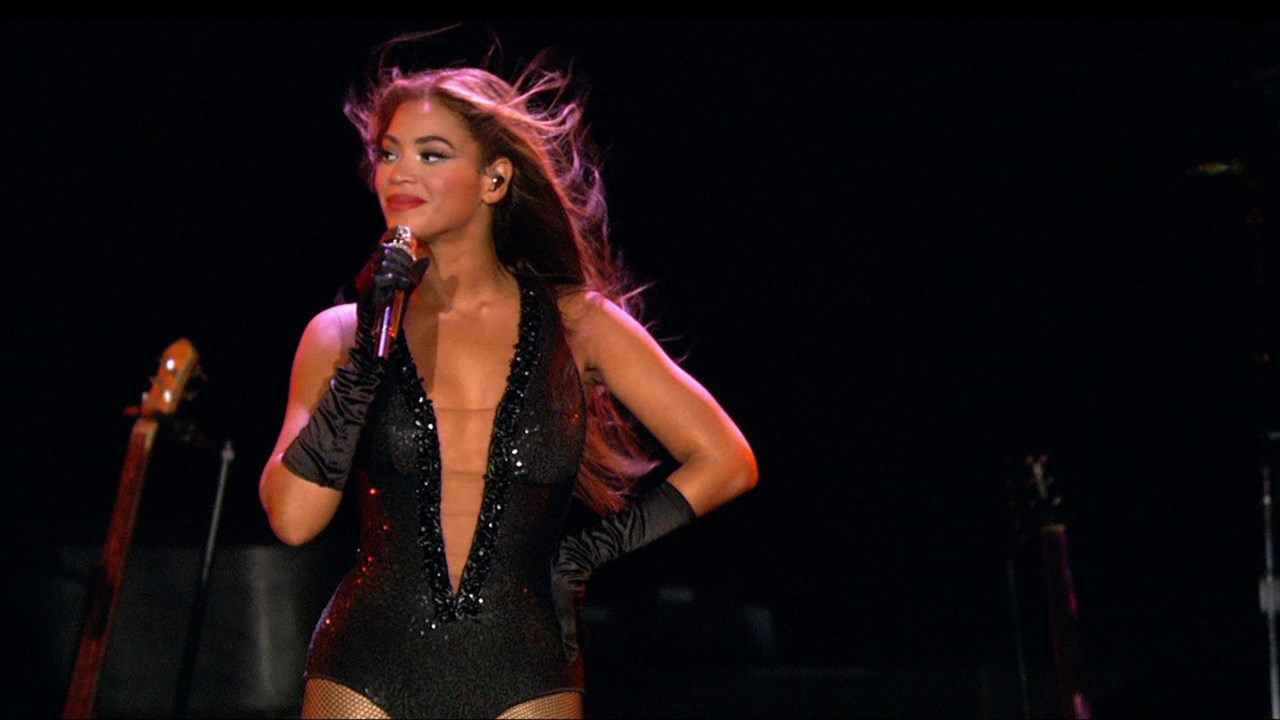
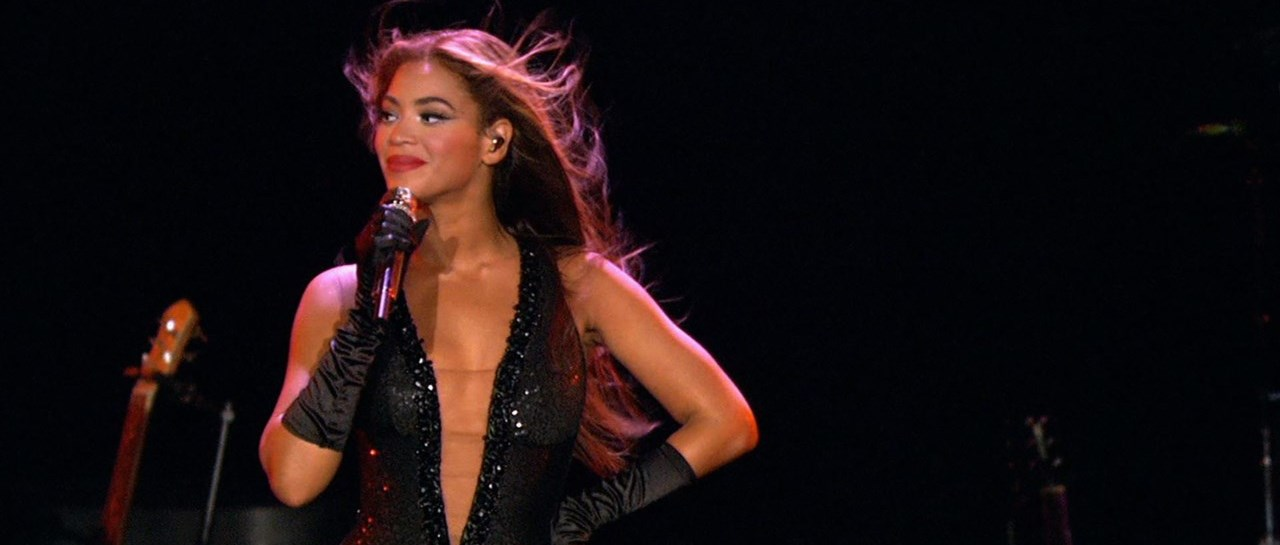
Fixed Single event page

diff --git a/vika-single-event.html b/vika-single-event.html
@@ -63,10 +63,7 @@
         </div>
     </div>
 
-    <div class="embed-responsive embed-responsive-16by9 p0 w-100">
-        <iframe style="height: 70%" src="https://www.youtube.com/embed/d8J3uQpLiUM" allow="accelerometer; autoplay; encrypted-media; gyroscope; picture-in-picture"
-            allowfullscreen>
-        </iframe>
+    <img src="img/vika/beyonce.jpg" class="p0 w-100" alt="Beyonce">
     </div>
 
     <div class="row container">
@@ -76,7 +73,7 @@
                 <p>Beyonce Knowles is an American R‘n’B pop singer from Houston, Texas.</p>
                 <p>Beyoncé Knowles is a Grammy Award-winning music artist who's acclaimed for her thrilling vocals,
                     videos
-                    and live shows. Beyoncé and rapper Jay-Z going on On the Run II Tour in summer and autumn 2018.
+                    and live shows. Beyoncé and rapper Jay-Z going on On the Run II Tour in summer and autumn 2019.
                     Read
                     more about the tour in our blog. The stadium tour kicks off in the UK on June 6.</p>
             </div>
@@ -181,131 +178,69 @@
     </div>
 
     <div class="row container m-v-2 p-v-2 m-v-1">
-        <div class="col-md-6">
+        <div class="col-md-5">
             <h4 class="m-v-2">Gallery</h4>
             <div class="row justify-content-center">
-                <div class="light-box hover-shadow">
-                    <a class="light-box-link" href="img/vika/beyonce7.jpg">
-                      <img src="img/vika/beyonce7-small.jpg" alt="Demo image">
+                <div class="light-box">
+                    <a class="light-box-link" href="#light-box-img1">
+                        <img src="img/img1_s.jpg" alt="Demo image">
                     </a>
                     <div id="light-box-img1" class="light-box-overlay fadeIn">
-                      <figure class="light-box-content light-box-figure">
-                        <img src="img/vika/beyonce7.jpg" alt="Demo image">
-                        <div class="light-box-image" style="width: 800px; padding-top: 66.25%; background-image: url(img/vika/beyonce7.jpg);"></div>
-                      </figure>
-                      <a href="#light-box-untarget" class="light-box-close light-box-control">Close</a>
-                      <a class="light-box-next light-box-control" href="#light-box-img2">Next</a>
+                        <figure class="light-box-content light-box-figure">
+                            <img src="img/img1_s.jpg" alt="Demo image">
+                            <div class="light-box-image" style="width: 800px; padding-top: 66.25%; background-image: url(img/img1.jpg);"></div>
+                        </figure>
+                        <a href="#light-box-untarget" class="light-box-close light-box-control">Close</a>
+                        <a class="light-box-next light-box-control" href="#light-box-img2">Next</a>
                     </div>
-                  </div>
-                
-                <div class="light-box hover-shadow">
-                    <a class="light-box-link" href="img/vika/beyonce4.jpg">
-                      <img src="img/vika/beyonce4-small.jpg" alt="Demo image">
-                    </a>
-                    <div id="light-box-img1" class="light-box-overlay fadeIn">
-                      <figure class="light-box-content light-box-figure">
-                        <img src="img/vika/beyonce4.jpg" alt="Demo image">
-                        <div class="light-box-image" style="width: 800px; padding-top: 66.25%; background-image: url(img/vika/beyonce4.jpg);"></div>
-                      </figure>
-                      <a href="#light-box-untarget" class="light-box-close light-box-control">Close</a>
-                      <a class="light-box-next light-box-control" href="#light-box-img2">Next</a>
-                    </div>
-                  </div>
-                  
-                  <div class="light-box hover-shadow">
-                    <a class="light-box-link" href="img/vika/beyonce5.jpg">
-                      <img src="img/vika/beyonce5-small.jpg" alt="Demo image">
-                    </a>
-                    <div id="light-box-img2" class="light-box-overlay fadeIn">
-                      <figure class="light-box-content light-box-figure">
-                        <img src="img/vika/beyonce5.jpg" alt="Demo image">
-                        <div class="light-box-image" style="width: 800px; padding-top: 66.25%; background-image: url(img/vika/beyonce5.jpg);"></div>
-                      </figure>
-                      <a href="#light-box-untarget" class="light-box-close light-box-control">Close</a>
-                      <a class="light-box-next light-box-control" href="#light-box-img3">Next</a>
-                      <a class="light-box-prev light-box-control" href="#light-box-img1">Prev</a>
-                    </div>
-                  </div>
-                  
-                  <div class="light-box hover-shadow">
-                    <a class="light-box-link" href="img/vika/beyonce8.jpg">
-                      <img src="img/vika/beyonce8-small.jpg" alt="Demo image">
-                    </a>
-                    <div id="light-box-img2" class="light-box-overlay fadeIn">
-                      <figure class="light-box-content light-box-figure">
-                        <img src="img/vika/beyonce8.jpg" alt="Demo image">
-                        <div class="light-box-image" style="width: 800px; padding-top: 66.25%; background-image: url(img/vika/beyonce8.jpg);"></div>
-                      </figure>
-                      <a href="#light-box-untarget" class="light-box-close light-box-control">Close</a>
-                      <a class="light-box-next light-box-control" href="#light-box-img3">Next</a>
-                      <a class="light-box-prev light-box-control" href="#light-box-img1">Prev</a>
-                    </div>
-                  </div>
-            
-            </div>
-            <div class="row justify-content-center">
-                <div class="light-box hover-shadow">
-                    <a class="light-box-link" href="img/vika/beyonce2.jpg">
-                      <img src="img/vika/beyonce2-small.jpg" alt="Demo image">
-                    </a>
-                    <div id="light-box-img1" class="light-box-overlay fadeIn">
-                      <figure class="light-box-content light-box-figure">
-                        <img src="img/vika/beyonce2.jpg" alt="Demo image">
-                        <div class="light-box-image" style="width: 800px; padding-top: 66.25%; background-image: url(img/vika/beyonce2.jpg);"></div>
-                      </figure>
-                      <a href="#light-box-untarget" class="light-box-close light-box-control">Close</a>
-                      <a class="light-box-next light-box-control" href="#light-box-img2">Next</a>
-                    </div>
-                  </div>
-                  
-                  <div class="light-box hover-shadow">
-                    <a class="light-box-link" href="img/vika/beyonce1.jpg">
-                      <img src="img/vika/beyonce1-small.jpg" alt="Demo image">
-                    </a>
-                    <div id="light-box-img2" class="light-box-overlay fadeIn">
-                      <figure class="light-box-content light-box-figure">
-                        <img src="img/vika/beyonce1.jpg" alt="Demo image">
-                        <div class="light-box-image" style="width: 800px; padding-top: 66.25%; background-image: url(img/vika/beyonce1.jpg);"></div>
-                      </figure>
-                      <a href="#light-box-untarget" class="light-box-close light-box-control">Close</a>
-                      <a class="light-box-next light-box-control" href="#light-box-img3">Next</a>
-                      <a class="light-box-prev light-box-control" href="#light-box-img1">Prev</a>
-                    </div>
-                  </div>
-                  
-                  <div class="light-box hover-shadow">
-                    <a class="light-box-link" href="img/vika/beyonce3.jpg">
-                      <img src="img/vika/beyonce3-small.jpg" alt="Demo image">
-                    </a>
-                    <div id="light-box-img3" class="light-box-overlay fadeIn">
-                      <figure class="light-box-content light-box-figure">
-                        <img src="img/vika/beyonce3.jpg" alt="Demo image">
-                        <div class="light-box-image" style="width: 800px; padding-top: 66.25%; background-image: url(img/vika/beyonce3.jpg);"></div>
-                      </figure>
-                      <a href="#light-box-untarget" class="light-box-close light-box-control">Close</a>
-                      <a class="light-box-prev light-box-control" href="#light-box-img2">Prev</a>
-                    </div>
-                  </div>
-                  
+                </div>
 
-                  <div class="light-box hover-shadow">
-                    <a class="light-box-link" href="img/vika/beyonce6.jpg">
-                      <img src="img/vika/beyonce6-small.jpg" alt="Demo image">
+                <div class="light-box">
+                    <a class="light-box-link" href="#light-box-img2">
+                        <img src="img/img2_s.jpg" alt="Demo image">
+                    </a>
+                    <div id="light-box-img2" class="light-box-overlay fadeIn">
+                        <figure class="light-box-content light-box-figure">
+                            <img src="img/img2_s.jpg" alt="Demo image">
+                            <div class="light-box-image" style="width: 800px; padding-top: 66.25%; background-image: url(img/img2.jpg);"></div>
+                        </figure>
+                        <a href="#light-box-untarget" class="light-box-close light-box-control">Close</a>
+                        <a class="light-box-next light-box-control" href="#light-box-img3">Next</a>
+                        <a class="light-box-prev light-box-control" href="#light-box-img1">Prev</a>
+                    </div>
+                </div>
+
+                <div class="light-box">
+                    <a class="light-box-link" href="#light-box-img3">
+                        <img src="img/img3_s.jpg" alt="Demo image">
                     </a>
                     <div id="light-box-img3" class="light-box-overlay fadeIn">
-                      <figure class="light-box-content light-box-figure">
-                        <img src="img/vika/beyonce6.jpg" alt="Demo image">
-                        <div class="light-box-image" style="width: 800px; padding-top: 66.25%; background-image: url(img/vika/beyonce6.jpg);"></div>
-                      </figure>
-                      <a href="#light-box-untarget" class="light-box-close light-box-control">Close</a>
-                      <a class="light-box-prev light-box-control" href="#light-box-img2">Prev</a>
+                        <figure class="light-box-content light-box-figure">
+                            <img src="img/img3_s.jpg" alt="Demo image">
+                            <div class="light-box-image" style="width: 800px; padding-top: 66.25%; background-image: url(img/img3.jpg);"></div>
+                        </figure>
+                        <a href="#light-box-untarget" class="light-box-close light-box-control">Close</a>
+                        <a class="light-box-prev light-box-control" href="#light-box-img2">Prev</a>
                     </div>
-                  </div>
-            
+                </div>
+
+                <div class="light-box">
+                    <a class="light-box-link" href="#light-box-img1">
+                        <img src="img/img1_s.jpg" alt="Demo image">
+                    </a>
+                    <div id="light-box-img1" class="light-box-overlay fadeIn">
+                        <figure class="light-box-content light-box-figure">
+                            <img src="img/img1_s.jpg" alt="Demo image">
+                            <div class="light-box-image" style="width: 800px; padding-top: 66.25%; background-image: url(img/img1.jpg);"></div>
+                        </figure>
+                        <a href="#light-box-untarget" class="light-box-close light-box-control">Close</a>
+                        <a class="light-box-next light-box-control" href="#light-box-img2">Next</a>
+                    </div>
+                </div>
             </div>
         </div>
 
-        <div class="col-md-6">
+        <div class="col-md-7">
             <h4 class="m-v-2">Europe Dates</h4>
             <table class="table table-striped m-v-2 m-v-1">
                 <thead>
@@ -317,19 +252,39 @@
                 </thead>
                 <tbody>
                     <tr>
-                        <td>June 19</td>
+                        <td><span class="badge bg-color-1">June 19</span></td>
                         <td>Amsterdam, NL Amsterdam Arena</td>
                         <td>£50</td>
                     </tr>
                     <tr>
-                        <td>June 23</td>
+                        <td><span class="badge bg-color-1">June 23</span></td>
                         <td>Copenhagen, DK Parken Stadium</td>
                         <td>£65</td>
                     </tr>
                     <tr>
-                        <td>June 25</td>
+                        <td><span class="badge bg-color-1">June 25</span></td>
                         <td>Stockholm, SW Friends Arena</td>
                         <td>£55</td>
+                    </tr>
+                    <tr>
+                        <td><span class="badge bg-color-1">June 28</span></td>
+                        <td>Berlin, DE Olympiastadion</td>
+                        <td>£50</td>
+                    </tr>
+                    <tr>
+                        <td><span class="badge bg-color-1">June 30</span></td>
+                        <td>Warsaw, PL Stadion Narodowy</td>
+                        <td>£45</td>
+                    </tr>
+                    <tr>
+                        <td><span class="badge bg-color-1">July 03</span></td>
+                        <td>Cologne, DE RheinEnergieStadion</td>
+                        <td>£58</td>
+                    </tr>
+                    <tr>
+                        <td><span class="badge bg-color-1">July 06</span></td>
+                        <td>Milan, IT San Siro</td>
+                        <td>£70</td>
                     </tr>
                 </tbody>
             </table>
